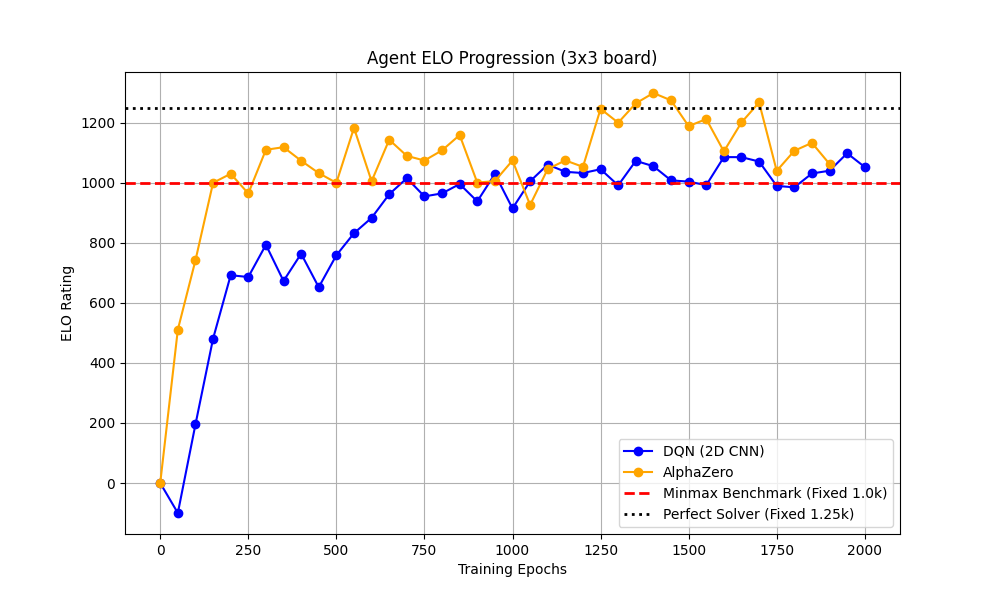
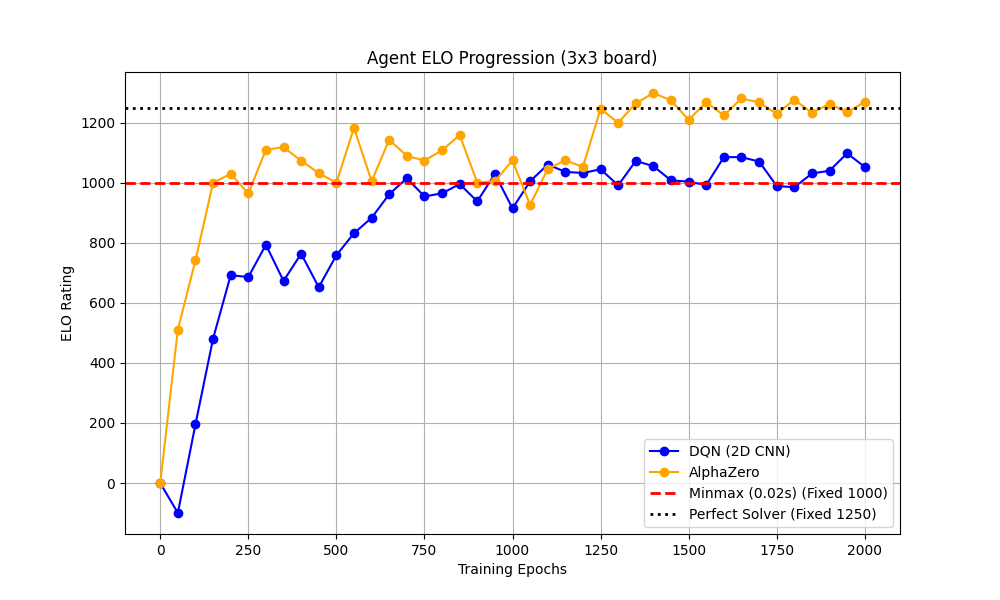
graph fix

Changed region(s): [[0.62, 0.72, 0.899, 0.87], [0.682, 0.15, 0.868, 0.27], [0.775, 0.24, 0.837, 0.3]]

diff --git a/train.py b/train.py
@@ -310,7 +310,7 @@ if args.a in ['qt', 'dqn', 'mcts', 'alphazero']:
                 pass
 
         # Plot fixed benchmark lines
-        plt.axhline(y=1000, color='red', linestyle='--', linewidth=2, label='Minmax Benchmark (Fixed 1000)')
+        plt.axhline(y=1000, color='red', linestyle='--', linewidth=2, label='Minmax (0.02s) (Fixed 1000)')
         if args.h == 3 and args.v == 3:
             plt.axhline(y=1250, color='black', linestyle=':', linewidth=2, label='Perfect Solver (Fixed 1250)')
         
